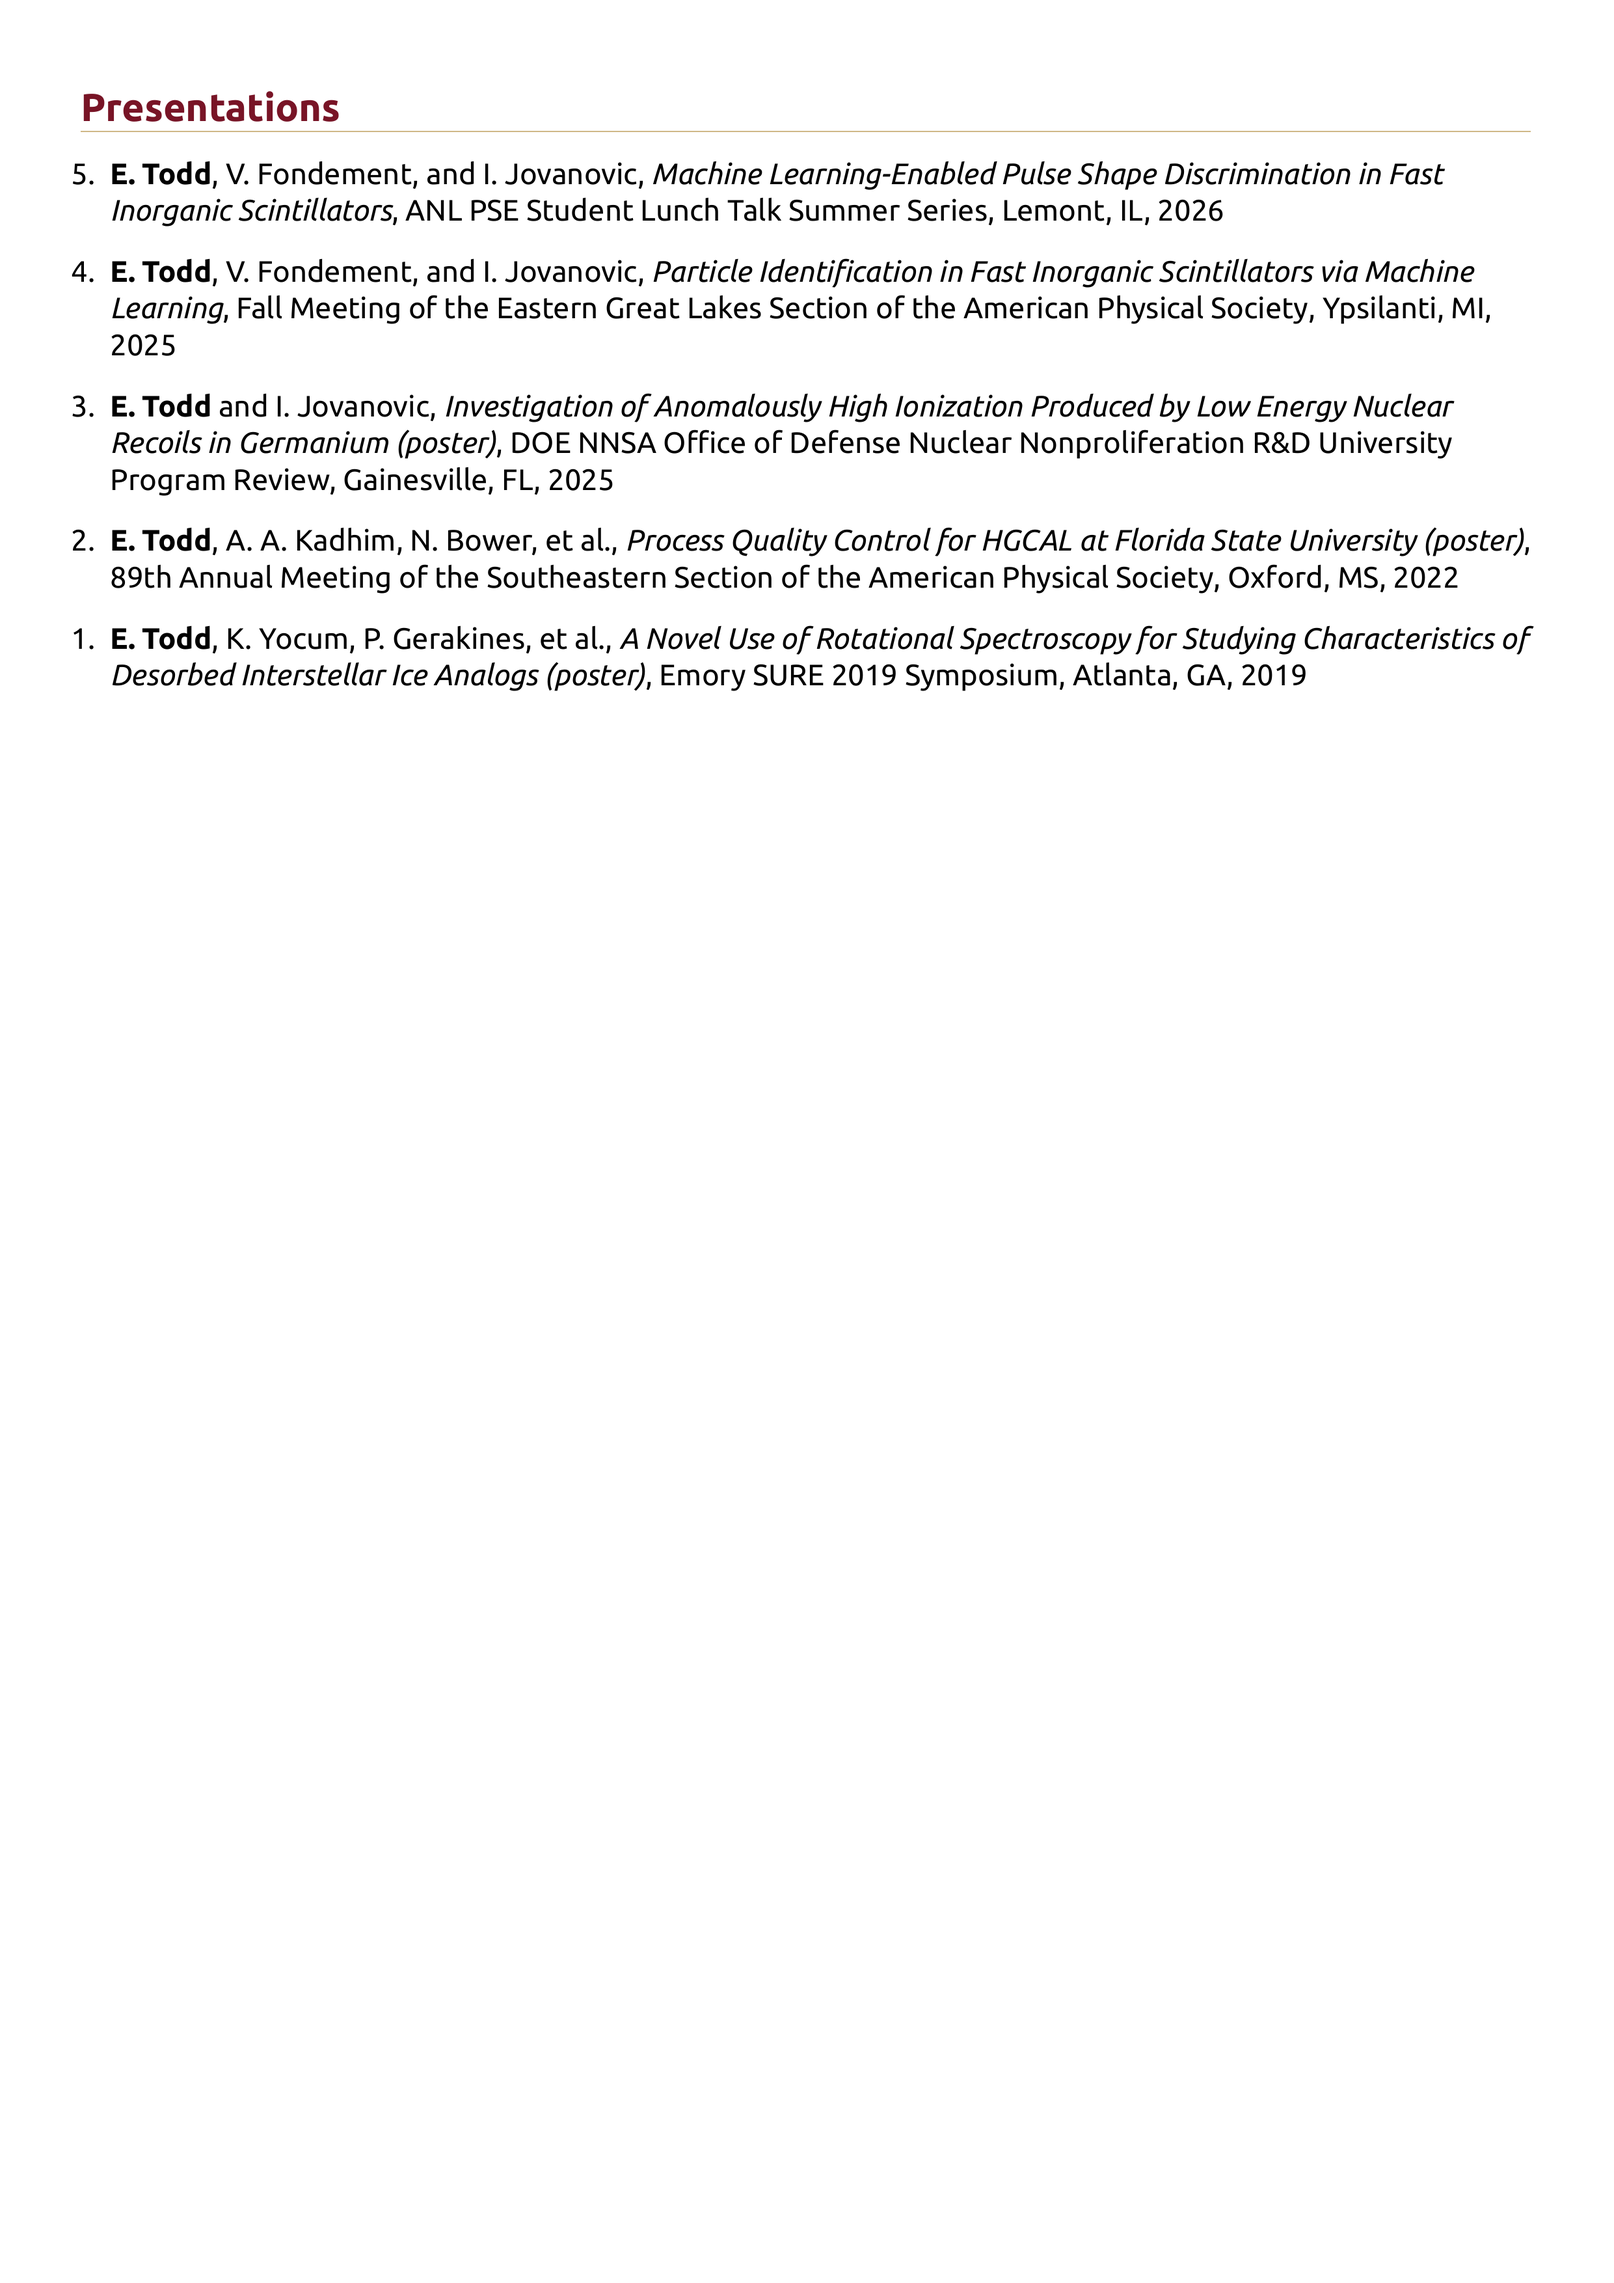
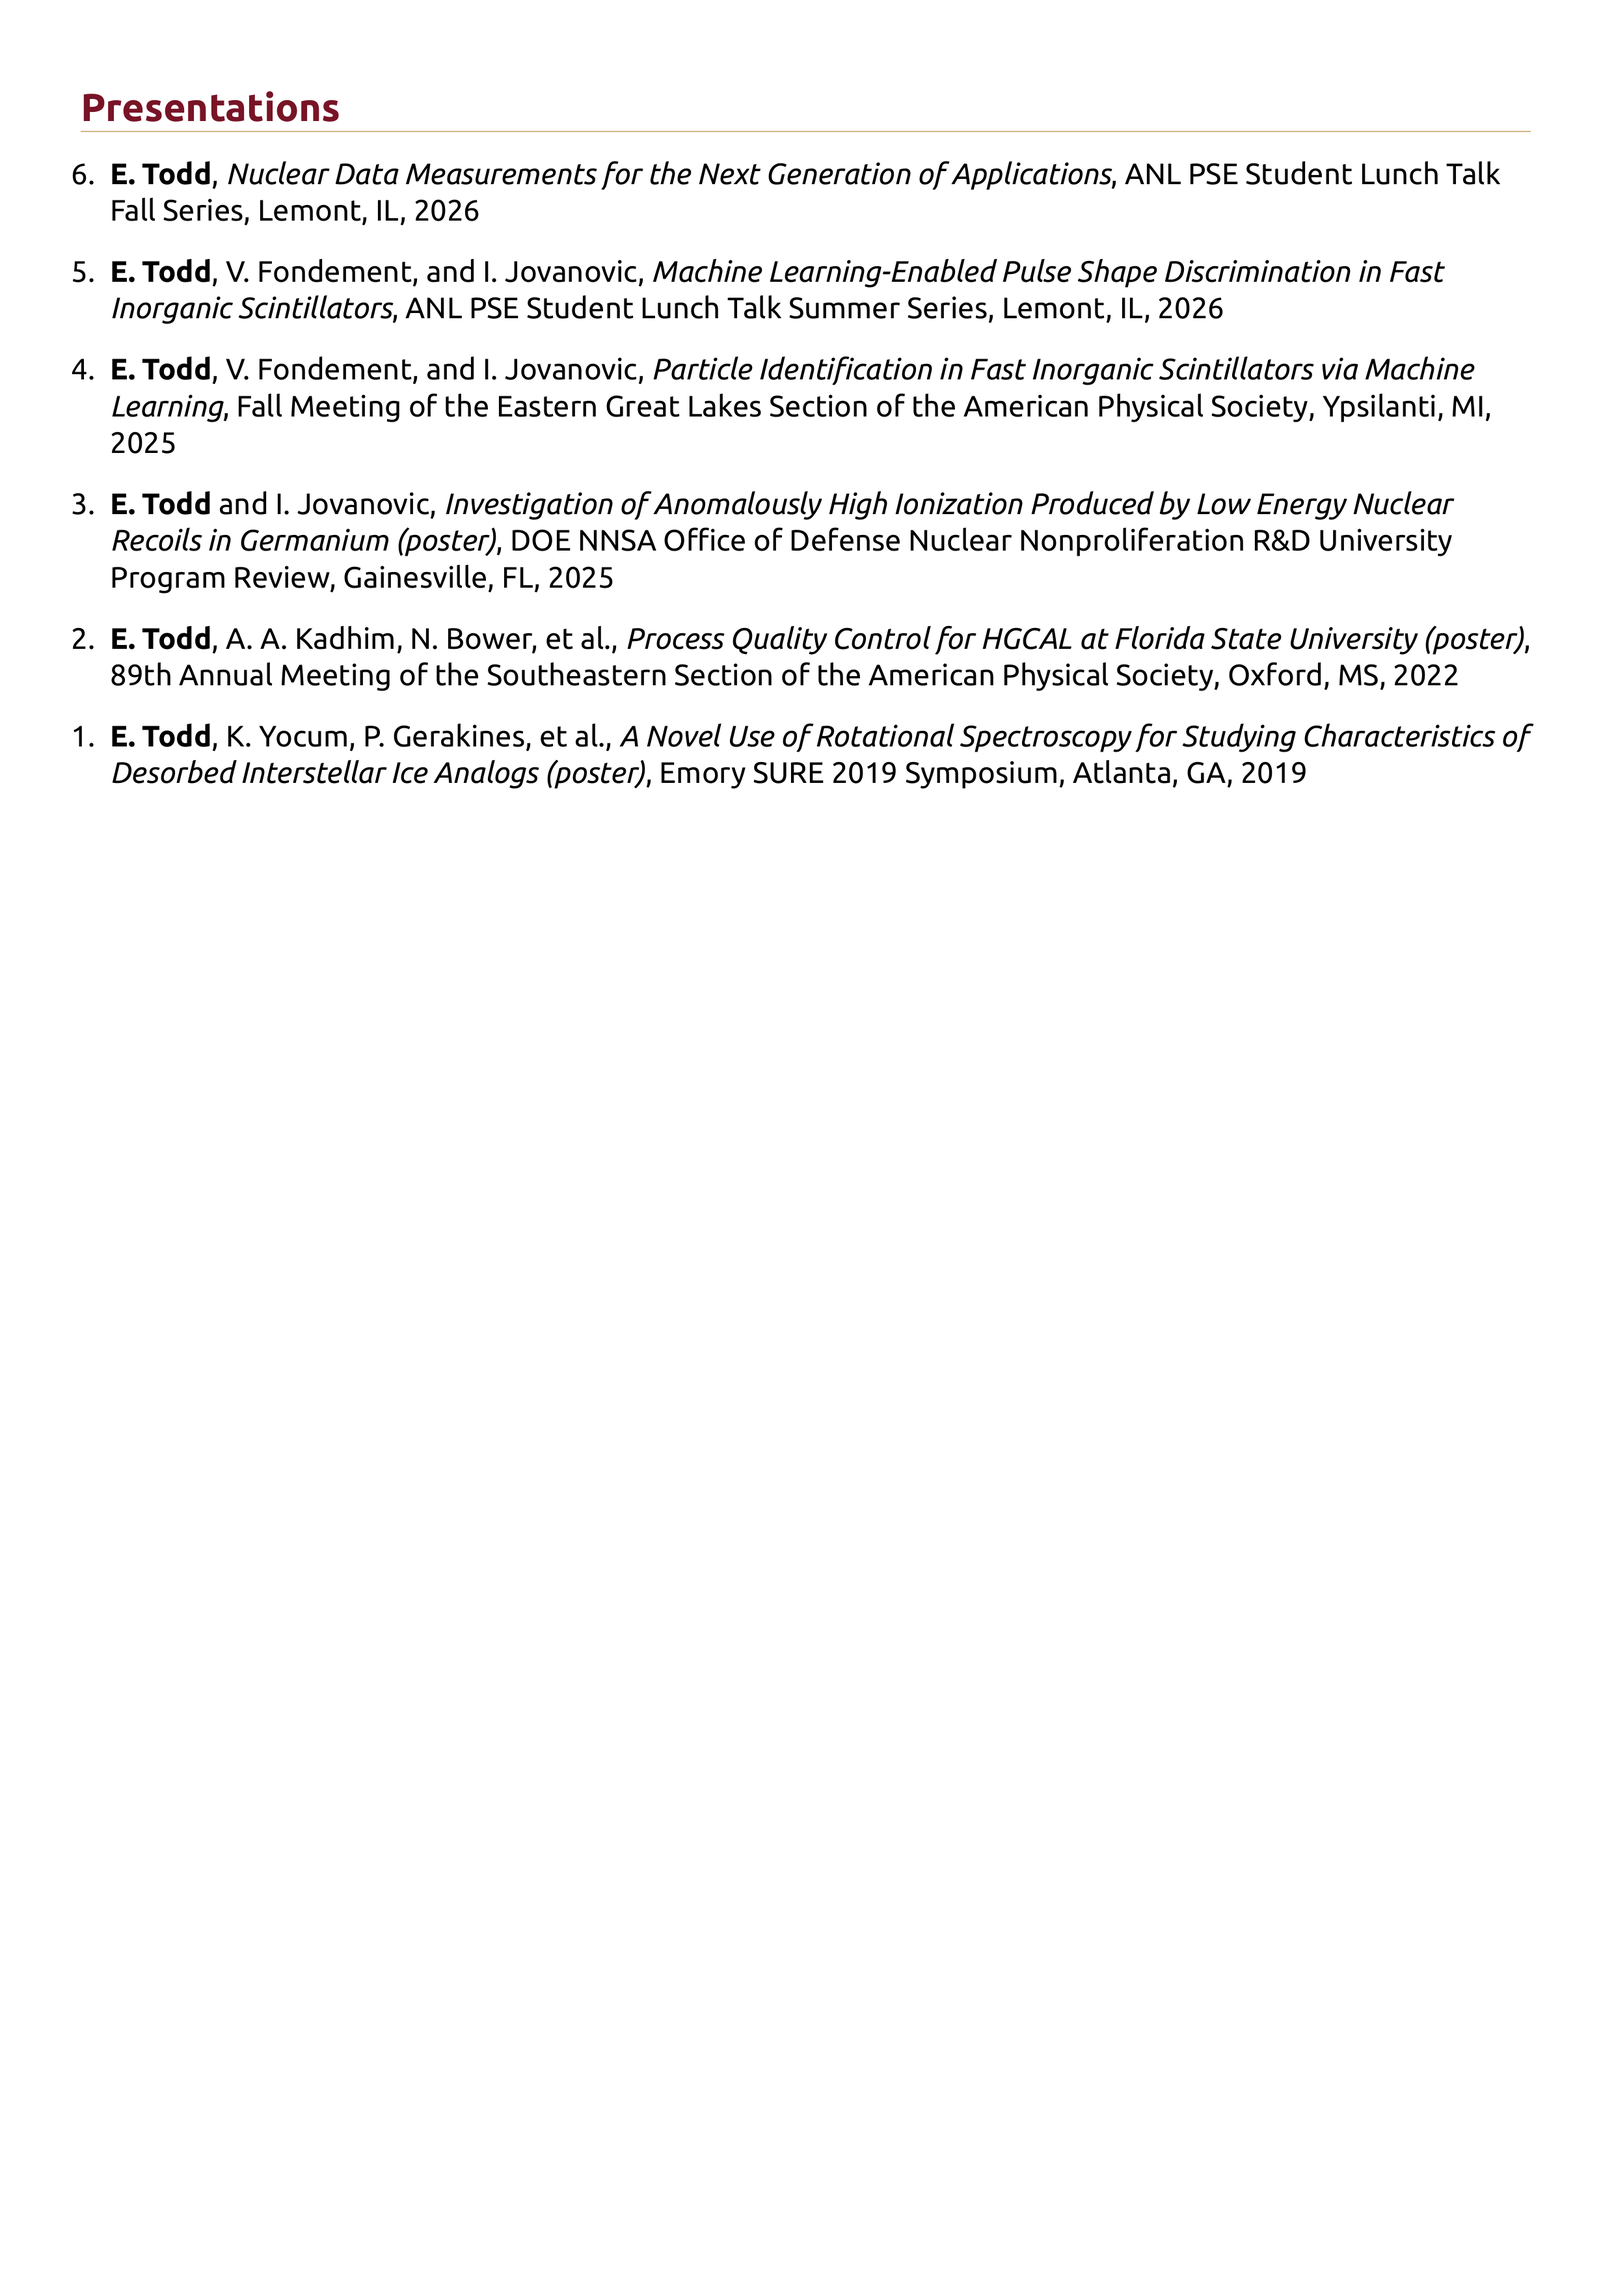
second student lunch talk

Changed region(s): [[0.0621, 0.0621, 0.9311, 0.3418]]

diff --git a/sections/presentations.tex b/sections/presentations.tex
@@ -1,9 +1,10 @@
 \section{Presentations}
 \begin{etaremune}
-	\item \fullcite{ANLLUNCH2026}
+	\item \fullcite{ANLLUNCHFALL2026}
+	\item \fullcite{ANLLUNCHSUMMER2026}
 	\item \fullcite{EGLS2025}
 	\item \fullcite{UPR2025}
 	\item \fullcite{SESAPS2022}
 	\item \fullcite{SURE2019}
 \end{etaremune}
-
+%
